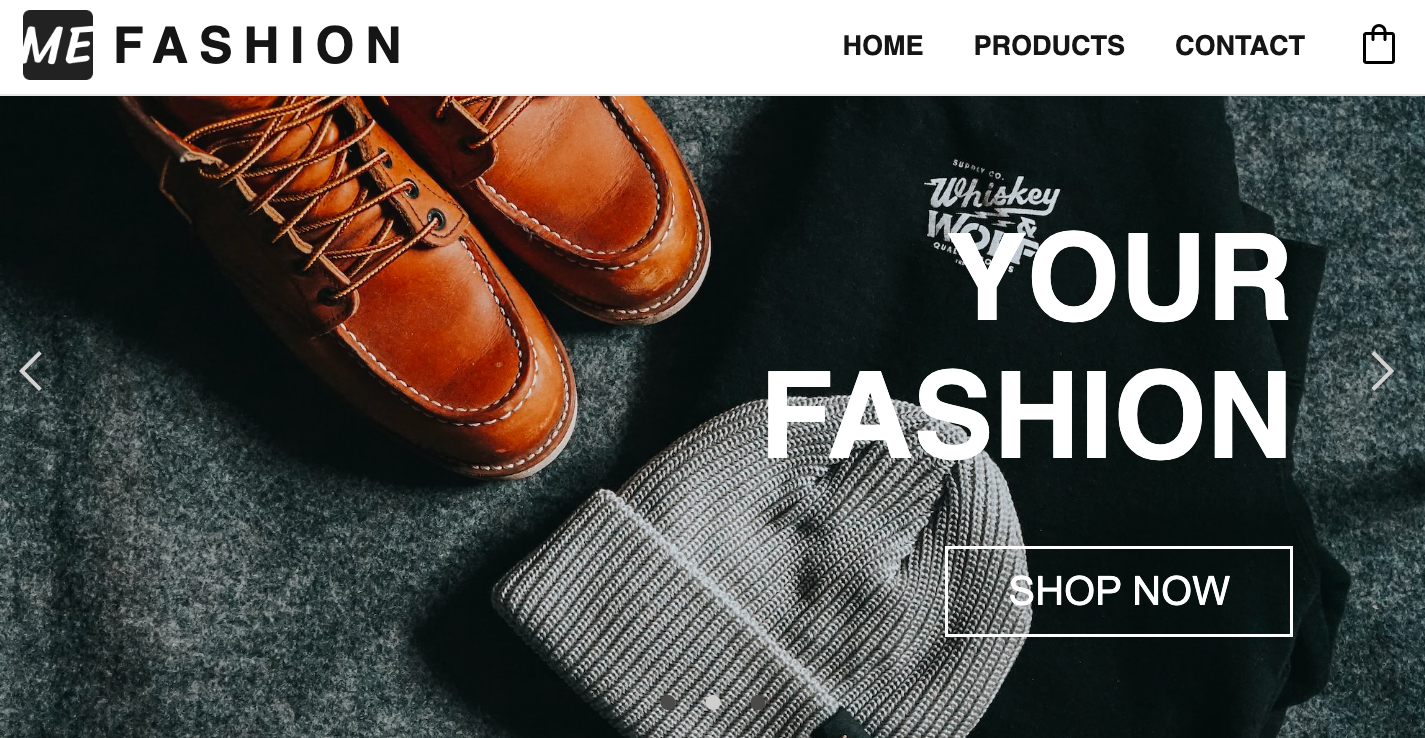
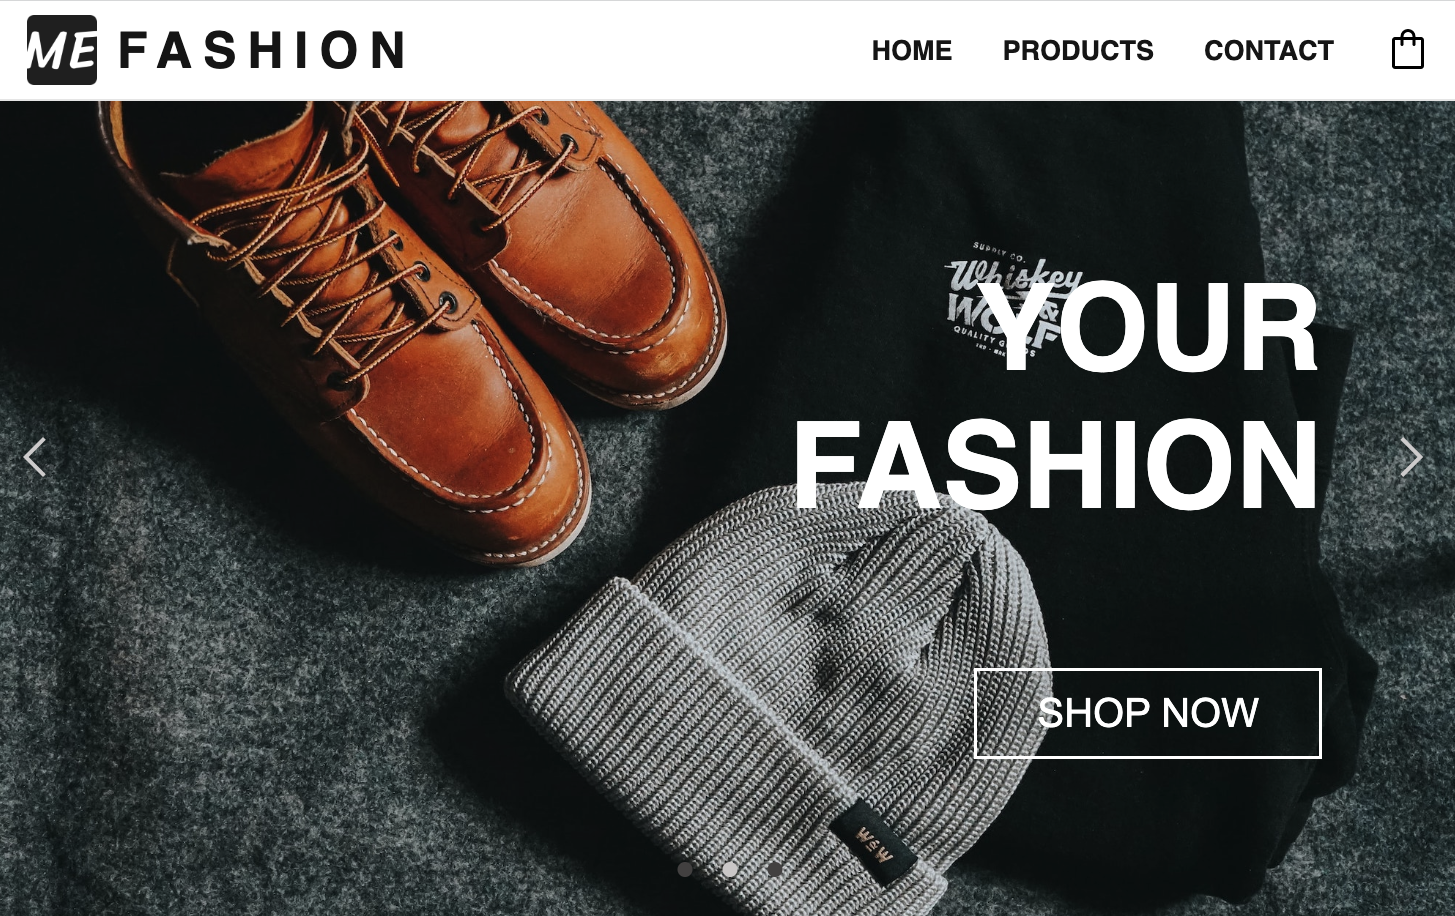
Adjust navbar opacity, title padding and screnshot size

diff --git a/public/styles.css b/public/styles.css
@@ -576,12 +576,12 @@ video {
   top: -105px;
 }
 
-.top-\[60px\]{
-  top: 60px;
-}
-
 .top-1\/2{
   top: 50%;
+}
+
+.top-\[60px\]{
+  top: 60px;
 }
 
 .z-20{
@@ -640,14 +640,6 @@ video {
   height: 100vh;
 }
 
-.h-full{
-  height: 100%;
-}
-
-.h-1\/2{
-  height: 50%;
-}
-
 .h-\[50vh\]{
   height: 50vh;
 }
@@ -670,26 +662,6 @@ video {
 
 .w-10{
   width: 2.5rem;
-}
-
-.translate-y-48{
-  --tw-translate-y: 12rem;
-  transform: translate(var(--tw-translate-x), var(--tw-translate-y)) rotate(var(--tw-rotate)) skewX(var(--tw-skew-x)) skewY(var(--tw-skew-y)) scaleX(var(--tw-scale-x)) scaleY(var(--tw-scale-y));
-}
-
-.translate-y-1\/2{
-  --tw-translate-y: 50%;
-  transform: translate(var(--tw-translate-x), var(--tw-translate-y)) rotate(var(--tw-rotate)) skewX(var(--tw-skew-x)) skewY(var(--tw-skew-y)) scaleX(var(--tw-scale-x)) scaleY(var(--tw-scale-y));
-}
-
-.-translate-y-1\/2{
-  --tw-translate-y: -50%;
-  transform: translate(var(--tw-translate-x), var(--tw-translate-y)) rotate(var(--tw-rotate)) skewX(var(--tw-skew-x)) skewY(var(--tw-skew-y)) scaleX(var(--tw-scale-x)) scaleY(var(--tw-scale-y));
-}
-
-.translate-y-\[-20\%\]{
-  --tw-translate-y: -20%;
-  transform: translate(var(--tw-translate-x), var(--tw-translate-y)) rotate(var(--tw-rotate)) skewX(var(--tw-skew-x)) skewY(var(--tw-skew-y)) scaleX(var(--tw-scale-x)) scaleY(var(--tw-scale-y));
 }
 
 .translate-y-\[-30\%\]{
@@ -757,10 +729,6 @@ video {
   flex-direction: column;
 }
 
-.items-end{
-  align-items: flex-end;
-}
-
 .items-center{
   align-items: center;
 }
@@ -769,20 +737,12 @@ video {
   justify-content: flex-end;
 }
 
-.justify-center{
-  justify-content: center;
-}
-
 .justify-between{
   justify-content: space-between;
 }
 
 .gap-6{
   gap: 1.5rem;
-}
-
-.gap-10{
-  gap: 2.5rem;
 }
 
 .gap-8{
@@ -799,6 +759,10 @@ video {
 
 .gap-16{
   gap: 4rem;
+}
+
+.gap-10{
+  gap: 2.5rem;
 }
 
 .gap-4{
@@ -1107,7 +1071,7 @@ h3{
 }
 
 h4{
-  margin-bottom: 1rem;
+  margin-bottom: 0.875rem;
   font-family: Sora, sans-serif;
   font-size: 1.125rem;
   line-height: 1.75rem;
@@ -1271,6 +1235,8 @@ h4{
   grid-column-start: 1;
   grid-column-end: 9;
   grid-row-start: 1;
+  display: flex;
+  align-items: center;
   border-top-width: 4px;
   border-bottom-width: 12px;
   border-left-width: 4px;
@@ -1339,6 +1305,8 @@ h4{
   grid-column-start: 5;
   grid-column-end: 13;
   grid-row-start: 1;
+  display: flex;
+  align-items: center;
   border-top-width: 4px;
   border-bottom-width: 12px;
   border-right-width: 4px;
@@ -1782,8 +1750,8 @@ h4{
     line-height: 1rem;
   }
 
-  .sm\:opacity-70{
-    opacity: 0.7;
+  .sm\:opacity-90{
+    opacity: 0.9;
   }
 }
 
@@ -1924,11 +1892,6 @@ h4{
     gap: 16rem;
   }
 
-  .xl\:text-xl{
-    font-size: 1.25rem;
-    line-height: 1.75rem;
-  }
-
   .xl\:text-8xl{
     font-size: 6rem;
     line-height: 1;
@@ -1955,13 +1918,13 @@ h4{
 }
 
 @media (min-width: 1536px){
-  .\32xl\:text-lg{
-    font-size: 1.125rem;
+  .\32xl\:text-xl{
+    font-size: 1.25rem;
     line-height: 1.75rem;
   }
 
-  .\32xl\:text-xl{
-    font-size: 1.25rem;
+  .\32xl\:text-lg{
+    font-size: 1.125rem;
     line-height: 1.75rem;
   }
 }

diff --git a/src/styles.css b/src/styles.css
@@ -15,7 +15,7 @@ h3 {
 }
 
 h4 {
-  @apply font-title text-lg md:text-xl lg:text-3xl mb-4 md:mb-8 md:text-text-100 uppercase;
+  @apply font-title text-lg md:text-xl lg:text-3xl mb-3.5 md:mb-8 md:text-text-100 uppercase;
 }
 
 .section {
@@ -35,7 +35,7 @@ h4 {
 }
 
 .project-wrapper:nth-child(odd) .img-box {
-  @apply col-start-1 col-end-9 lg:col-end-8 row-start-1 border-text-100 border-t-4 border-b-[12px] border-l-4 border-r-[12px];
+  @apply col-start-1 col-end-9 lg:col-end-8 row-start-1 border-text-100 border-t-4 border-b-[12px] border-l-4 border-r-[12px] flex items-center;
 }
 
 .project-wrapper:nth-child(odd) .project-info {
@@ -47,7 +47,7 @@ h4 {
 }
 
 .project-wrapper:nth-child(even) .img-box {
-  @apply col-start-5 lg:col-start-6 col-end-13 row-start-1 border-text-100 border-t-4 border-b-[12px] border-r-4 border-l-[12px];
+  @apply col-start-5 lg:col-start-6 col-end-13 row-start-1 border-text-100 border-t-4 border-b-[12px] border-r-4 border-l-[12px] flex items-center;
 }
 
 .project-wrapper:nth-child(even) .project-info {

diff --git a/public/index.html b/public/index.html
@@ -15,7 +15,7 @@
 <body
   class="relative font-body overflow-x-hidden bg-bg-100 text-white text-sm xs:text-base md:text-lg 2xl:text-xl flex flex-col items-center scrollbar-thin scrollbar-thumb-text-300 scrollbar-track-bg-200 selection:bg-text-300 selection:text-white">
   <div id="navbar"
-    class="flex flex-col sm:flex-row pl-6 pr-6 sm:pr-10 lg:pr-16 w-full sm:justify-between items-center fixed bg-bg-100 sm:opacity-70 z-20">
+    class="flex flex-col sm:flex-row pl-6 pr-6 sm:pr-10 lg:pr-16 w-full sm:justify-between items-center fixed bg-bg-100 sm:opacity-90 z-20">
 
     <div class="flex justify-between w-screen p-4 sm:w-auto bg-bg-100">
       <a href="#"><img src="assets/logo.png" alt="logo" class="w-8 h-8 lg:w-10 lg:h-10 xl:w-16 xl:h-16"></a>
